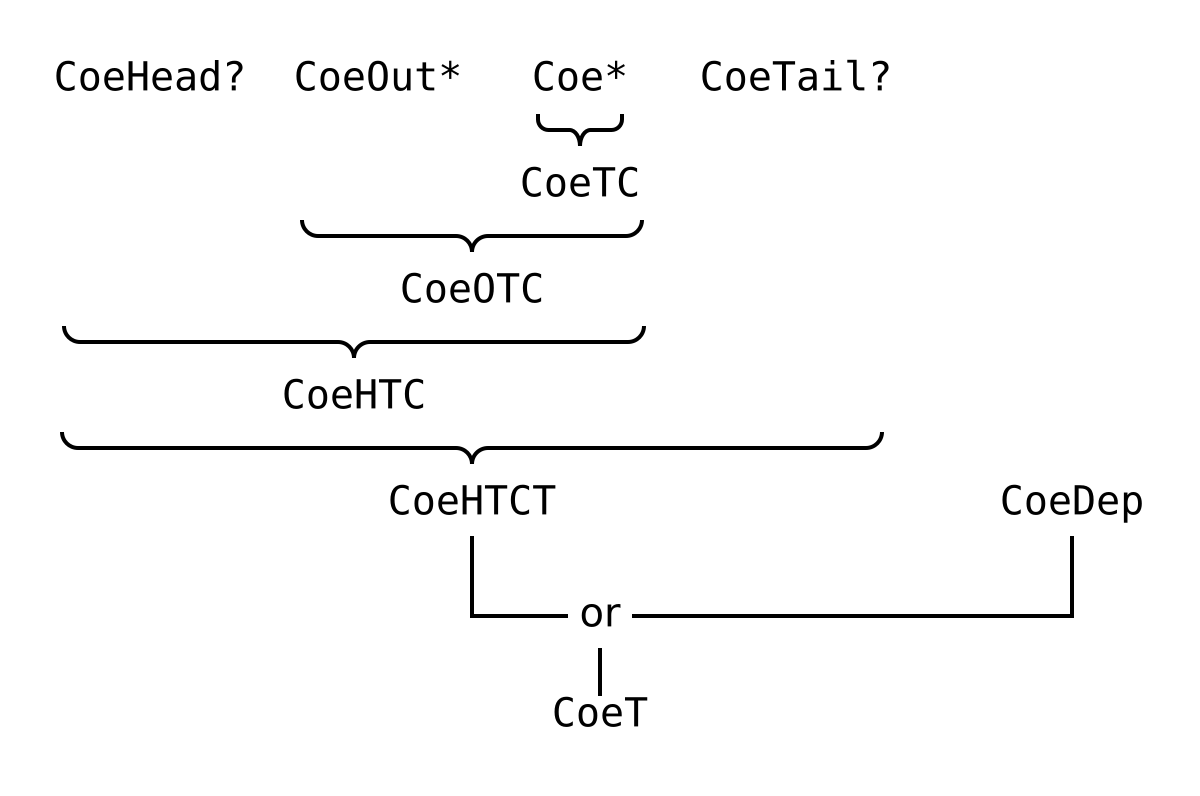
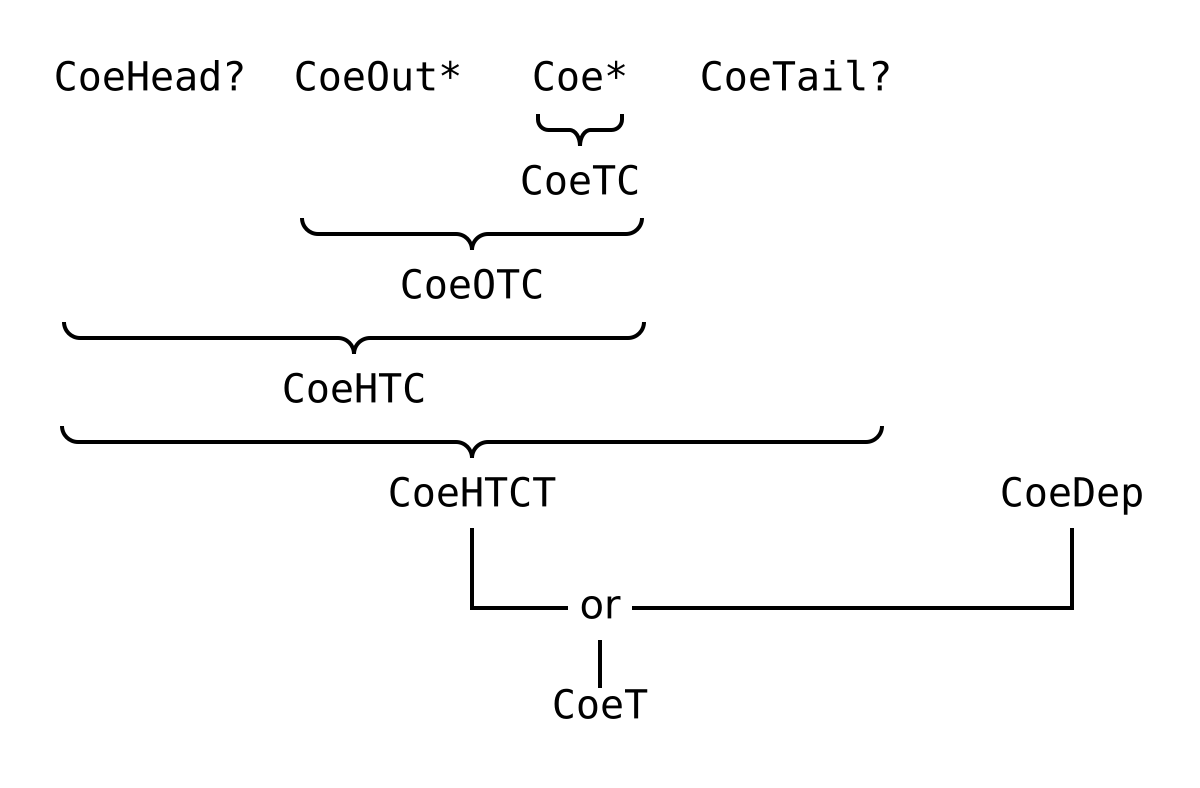
fix: curly brace directions and layout (#29)

diff --git a/test_playwright.py b/test_playwright.py
@@ -331,6 +331,21 @@ def test_stringlayout_visual():
     _run_visual_test("string-layout.svg", "stringlayout")
 
 
+def test_textmixedfonts_visual():
+    """Compare text mixed fonts diagram rendering against expected baseline."""
+    _run_visual_test("text-mixed-fonts.svg", "textmixedfonts")
+
+
+def test_bracedirections_visual():
+    """Compare brace directions diagram rendering against expected baseline."""
+    _run_visual_test("brace-directions.svg", "bracedirections")
+
+
+def test_bracedirectionsangles_visual():
+    """Compare brace directions angles diagram rendering against expected baseline."""
+    _run_visual_test("brace-directions-angles.svg", "bracedirectionsangles")
+
+
 def test_coechain_visual():
     """Compare coe-chain diagram rendering against expected baseline."""
     _run_visual_test("coe-chain.svg", "coechain")
@@ -545,6 +560,9 @@ def main():
         test_roundedrects_7_5_visual,
         test_pipeline_visual,
         test_stringlayout_visual,
+        test_textmixedfonts_visual,
+        test_bracedirections_visual,
+        test_bracedirectionsangles_visual,
         test_coechain_visual,
         test_lakeworkspace_visual,
         test_stars_visual,
